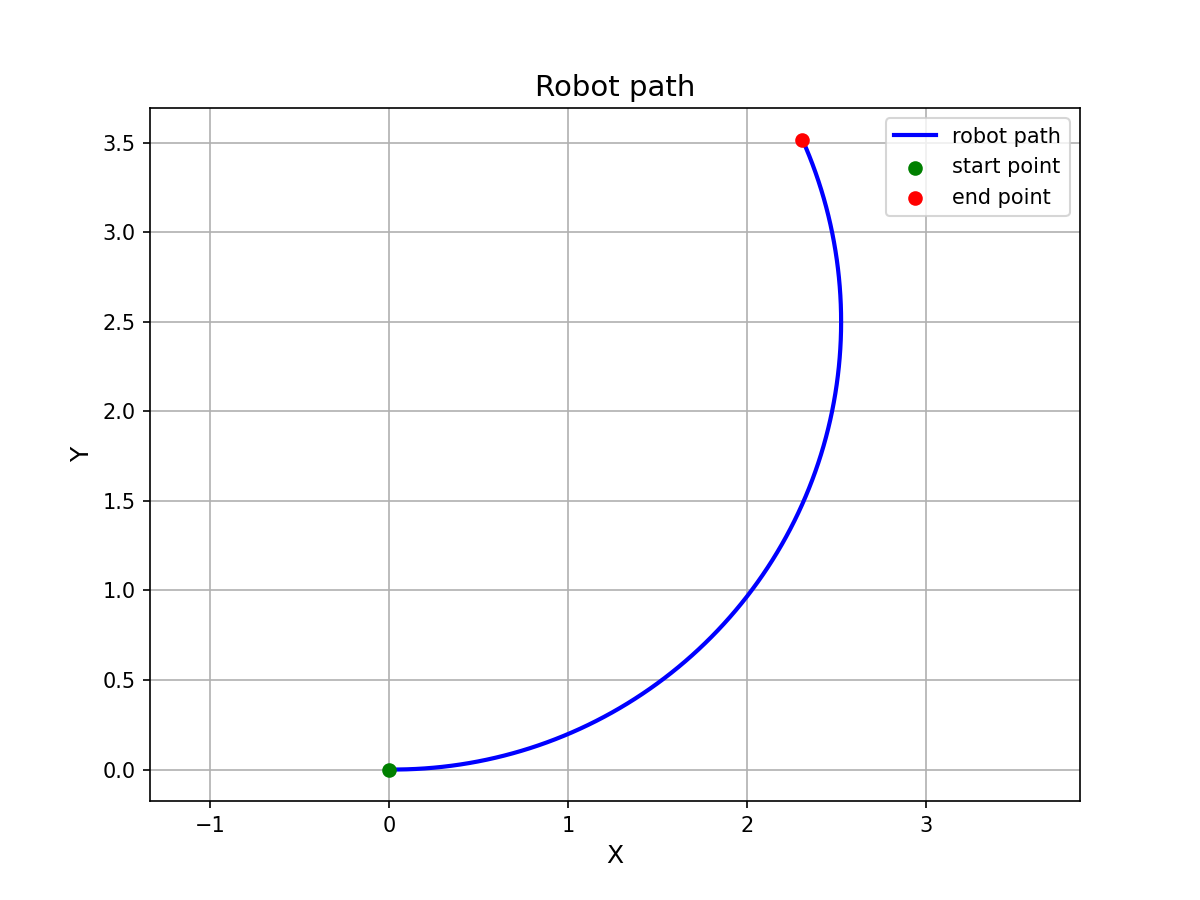
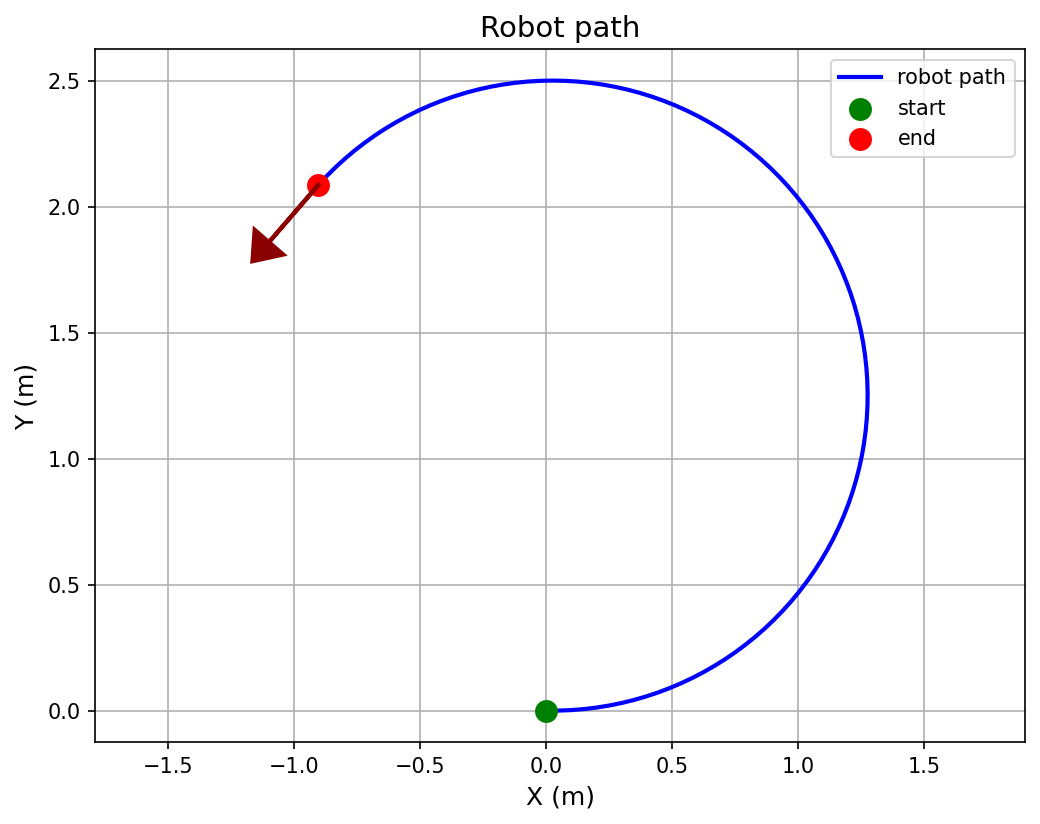
Add arrow visualization and auto-naming for robot path plots

diff --git a/week01/differential_motion.py b/week01/differential_motion.py
@@ -31,20 +31,35 @@ def compute_total_distance(path):
 def plot_path(path, output):
     x_vals = [p[0] for p in path]
     y_vals = [p[1] for p in path]
+    fx, fy, ftheta = path[-1]
 
     plt.figure(figsize=(8, 6))
     plt.plot(x_vals, y_vals, 'b-', linewidth=2, label='robot path')
-    plt.scatter(x_vals[0], y_vals[0], color='green', label='start point', zorder=5)
-    plt.scatter(x_vals[-1], y_vals[-1], color='red', label='end point', zorder=5)
-    plt.xlabel('X', fontsize=12)
-    plt.ylabel('Y', fontsize=12)
+    plt.scatter(x_vals[0], y_vals[0], s=100, color='green', label='start', zorder=5)
+    plt.scatter(fx, fy, color='red', s=100, label='end', zorder=5)
+    
+    arrow_length = 0.3
+    dx = arrow_length * math.cos(ftheta)
+    dy = arrow_length * math.sin(ftheta)
+    plt.arrow(fx, fy, dx, dy, head_width=0.15, head_length=0.1, fc='darkred', ec='darkred', linewidth=2, zorder=6) 
+    
+    plt.xlabel('X (m)', fontsize=12)
+    plt.ylabel('Y (m)', fontsize=12)
     plt.title('Robot path', fontsize=14)
     plt.legend()
     plt.grid(True)
     plt.axis('equal')
-    plt.savefig(output, dpi=150)
+    plt.savefig(output, dpi=150, bbox_inches='tight')
     plt.close()
 
+
+def generate_output_filename(w):
+    if w == 0:
+        return "output_straight.png"
+    elif abs(w) <=0.3:
+        return "output_curve.png"
+    else:
+        return "output.png"
 
 
 def main():
@@ -57,10 +72,14 @@ def main():
     parser.add_argument("--v", type=float, default=0.5, help="Linear velocity of the robot in m/s")
     parser.add_argument("--w", type=float, default=0.2, help="Angular velocity of the robot in rad/s")
     parser.add_argument("--steps", type=int, default=100, help="Number of simulation steps")
-    parser.add_argument("--out", type=str, default="output.png", help="Output image file name")
+    parser.add_argument("--out", type=str, default=None, help="Output image file name")
 
 
     args = parser.parse_args()
+
+    if args.out is None:
+        args.out = generate_output_filename(args.w)
+
 
     path, final_pose = simulate_motion(args.x, args.y, args.theta, args.dt, args.v, args.w, args.steps)
     plot_path(path, args.out)

diff --git a/week01/README.md b/week01/README.md
@@ -80,3 +80,7 @@ The turning radius is given by $r = v/w$. Higher $w$ produces tighter curves.
 - وقتی $w = 0$ باشد، مسیر مستقیم است.
 - هرچه $w$ بیشتر شود، انحنای مسیر بیشتر میشود.
 - $v$ تعیین میکند ربات در هر گام چهقدر جلو برود.
+
+## Sample Output
+
+![Robot Path](output.png)